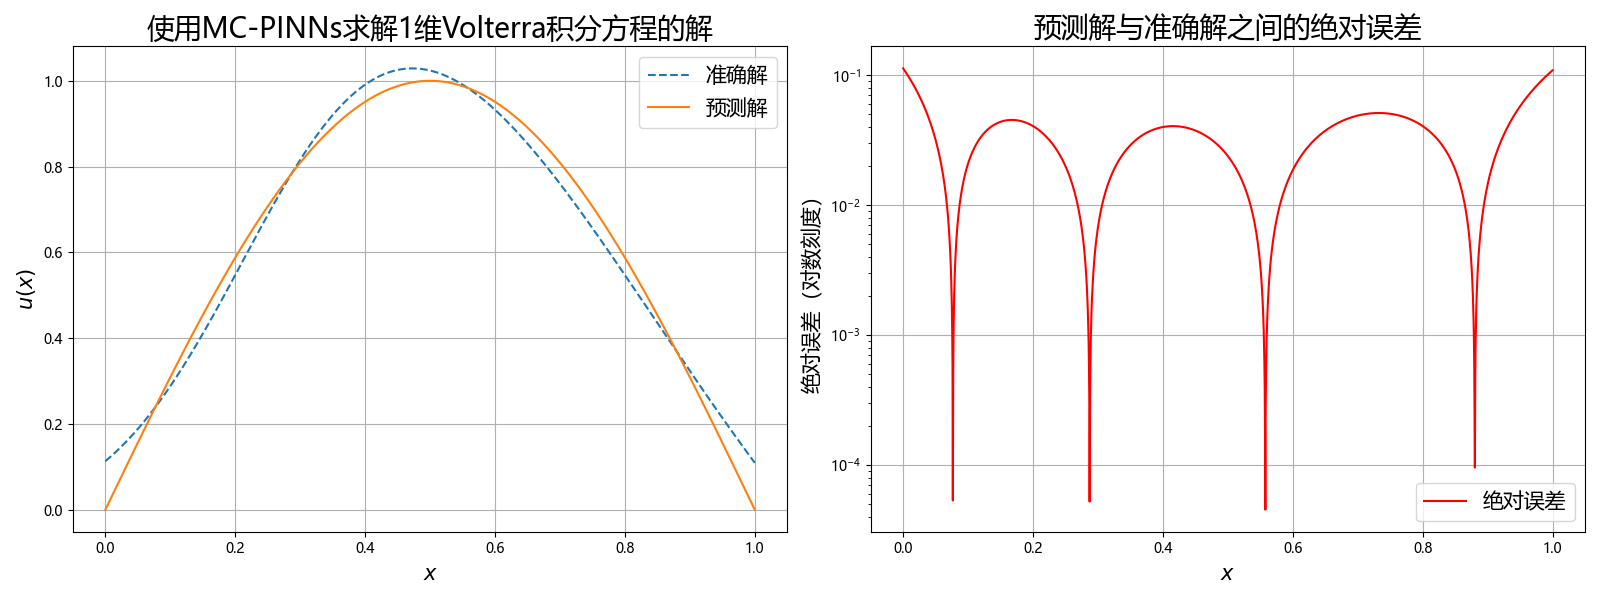
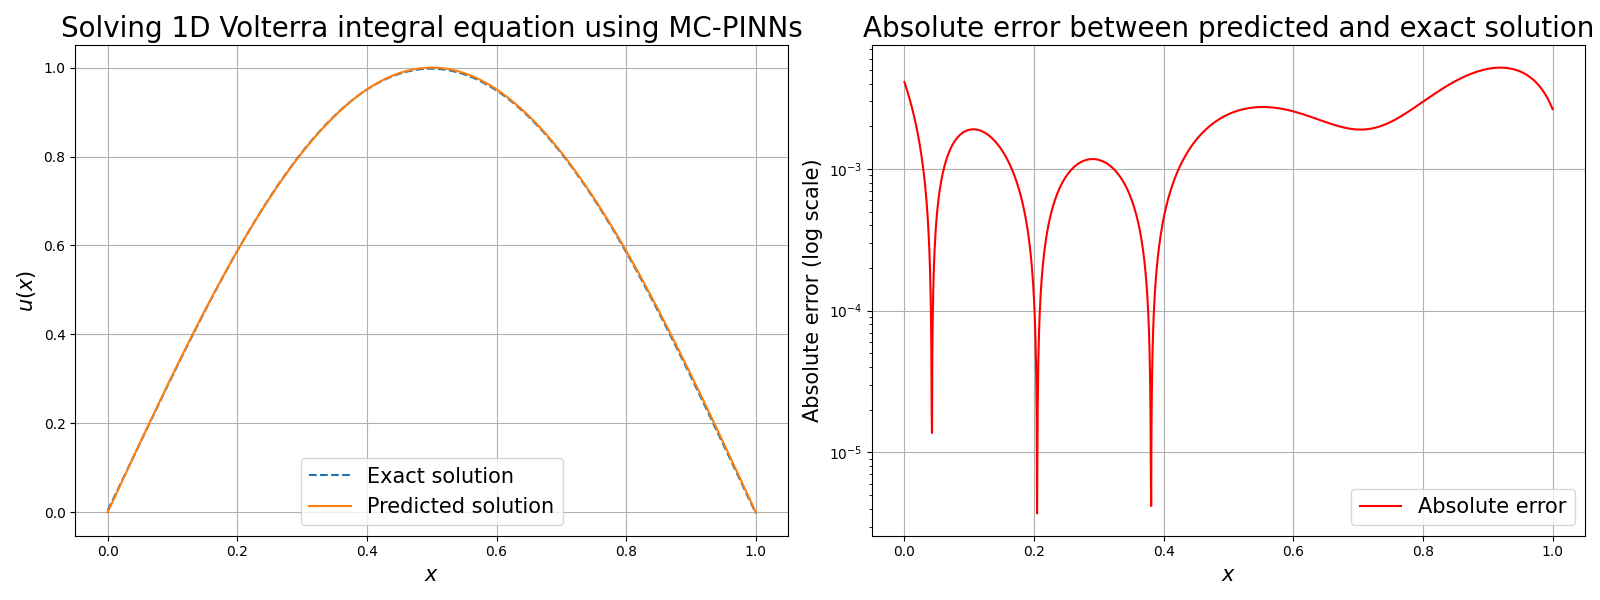
Add Volterra 2D problem definition and update training configuration
- Add Volterra_2D_NR.py problem file with 2D nonlinear integral equation
- Add sympy script for deriving symbolic solution of Volterra 2D problem
- Switch default training to use float64 precision and dynamic learning rate
- Increase maximum epochs to 10,000 and adjust model architecture parameters
- Add relative and L2 loss metrics to output

diff --git a/Volterra1D_MCPI.py b/Volterra1D_MCPI.py
@@ -10,21 +10,21 @@ if __name__ == "__main__":
 	plt.rcParams['axes.unicode_minus'] = False
 	setup_seed(233) # set up the random seed
 	device = torch.device("cuda:0" if torch.cuda.is_available() else "cpu")
-	dtype = torch.float32
+	dtype = torch.float64
 	n_s = 200
-	n_e = 1000
-	# 定义域
+	n_e = 10000
+
 	x = torch.linspace(0, 1, 200, device=device, dtype=dtype)
 	s1 = torch.rand(n_s, device=device, dtype=dtype)
 	s2 = torch.rand(n_s, device=device, dtype=dtype)
 	s = [s1, s2]
 
 	# build model
-	m = 1  # eval(input())
+	m = 1
 	if m==0:
-		model = PINNModel(num_layers=2, hidden_dim=4, dtype=dtype).to(device)
+		model = PINNModel(num_layers=2, hidden_dim=6, dtype=dtype).to(device)
 	elif m==1:
-		model = CPIKANModel(num_layers=2, hidden_dim=2, degree=2, dtype=dtype).to(device)
+		model = CPIKANModel(num_layers=2, hidden_dim=3, degree=3, dtype=dtype).to(device)
 	else:
 		raise ValueError("Invalid value: m should be 0 or 1.")
 	print_modelsize(model)
@@ -32,7 +32,7 @@ if __name__ == "__main__":
 
 	# train model
 	time0 = time.time()
-	train(model, loss_fn, x, s, lr=0.01, max_epochs=n_e)
+	train(model, loss_fn, x, s, lr=0.1, max_epochs=n_e, dynamic_lr=True)
 	time1 = time.time()
 	print("Training time: " + str(time1 - time0) + "s")
 	# prediction result
@@ -67,14 +67,15 @@ if __name__ == "__main__":
 
 	# add statistical information of residual
 	relative_loss = torch.sqrt((residual**2).mean())/torch.sqrt((u_solution**2).mean())
-	print(relative_loss.item())
+	l2_loss = torch.sqrt((residual**2).mean())
+	print(f"Relative loss: {relative_loss.item()}")
+	print(f"L2 loss: {l2_loss.item()}")
 	# 显示参数
-	print(p.size() for p in model.parameters())
 	# print(model.lys[0].weight)
 	# print(model.lys[0].bias)
 	# print(model.lys[1].weight)
 	# print(model.lys[1].bias)
-	summary(model, input_size=(1, 1), verbose=2)
+	summary(model, input_size=(1, 1), verbose=2, dtypes=[dtype, dtype])
 
 	# display image
 	plt.tight_layout() # automatically adjust subplot spacing

diff --git a/sympy_for_solution/2.py b/sympy_for_solution/2.py
@@ -1,0 +1,54 @@
+import sympy as sp
+
+# 定义符号变量
+x, tau, eta, xi = sp.symbols('x tau eta xi', real=True)
+
+# 已知精确解 u(eta, xi) = eta^2 + 2*eta*xi
+u = eta**2 + 2*eta*xi
+
+# ========== 计算第二项 I1 ==========
+print("计算第二项 I1 (非线性积分项)...")
+
+# 被积函数: (x+tau+eta+xi) * u^2
+u_squared = u**2  # (eta^2 + 2*eta*xi)^2
+integrand1 = (x + tau + eta + xi) * u_squared
+
+# 积分顺序: 先对 eta 积分，再对 xi 积分
+# 内层积分: ∫_{xi/10}^{x} ... dη
+inner_integral1 = sp.integrate(integrand1, (eta, xi/10, x))
+print(f"内层积分结果: {inner_integral1}")
+
+# 外层积分: ∫_{0}^{tau} ... dξ
+I1 = sp.integrate(inner_integral1, (xi, 0, tau))
+print(f"I1 = {I1}")
+print()
+
+# ========== 计算第三项 I2 ==========
+print("计算第三项 I2 (线性积分项)...")
+
+# 被积函数: (x*tau + eta*xi^2) * u
+integrand2 = (x*tau + eta*xi**2) * u
+
+# 积分区域 Ω: 0 < ξ < 1, ξ/10 < η < exp(ξ)/5
+# 内层积分: ∫_{xi/10}^{exp(xi)/5} ... dη
+inner_integral2 = sp.integrate(integrand2, (eta, xi/10, sp.exp(xi)/5))
+print(f"内层积分结果: {inner_integral2}")
+
+# 外层积分: ∫_{0}^{1} ... dξ
+I2 = sp.integrate(inner_integral2, (xi, 0, 1))
+print(f"I2 = {I2}")
+print()
+
+# ========== 计算 f(x, tau) ==========
+print("计算 f(x, tau)...")
+u_xt = x**2 + 2*x*tau  # u(x, tau)
+f = u_xt + I1 + I2
+
+# 简化表达式
+f_simplified = sp.simplify(f)
+print(f"f(x, tau) = {f_simplified}")
+
+# 也可以展开看看
+print("\n展开形式:")
+f_expanded = sp.expand(f_simplified)
+print(f"f(x, tau) = {f_expanded}")

diff --git a/train.py b/train.py
@@ -1,6 +1,6 @@
 import torch, time
 
-def train(model, loss_fn, x, ksi, max_epochs=1000, lr=1e-3, epsilon=1e-20, show_iter=200, opt_method="Adam", dynamic_lr=True):
+def train(model, loss_fn, x, ksi, max_epochs=1000, lr=1e-3, epsilon=1e-20, show_iter=200, opt_method="Adam", dynamic_lr=False):
 	print("Start training...")
 	print(f"Max Epochs: {max_epochs}, Learning Rate: {lr}, Epsilon: {epsilon}, Interval of Display: {show_iter}, Dynamic LR: {dynamic_lr}")
 

diff --git a/problems/Volterra_2D_NR.py b/problems/Volterra_2D_NR.py
@@ -1,0 +1,7 @@
+import torch
+
+def f(x, tau):
+	y = -331 * tau ** 7 / 720000 - 2153 * tau ** 6 * x / 9000000 + 7 * tau ** 4 * x ** 3 / 9 + 29 * tau ** 3 * x ** 4 / 18 + 6 * tau ** 2 * x ** 5 / 5 + 11 * tau * x ** 6 / 30 + tau * x * torch.exp(torch.tensor(3)) / 1125 + tau * x * torch.exp(2) / 100 + 14447 * tau * x / 7200 + x ** 2 + 12871 / 45360000 + torch.exp(4) / 16000 + 8 * torch.exp(3) / 10125
+	return y
+
+print(f(torch.tensor(0.0), torch.tensor(0.0)))
